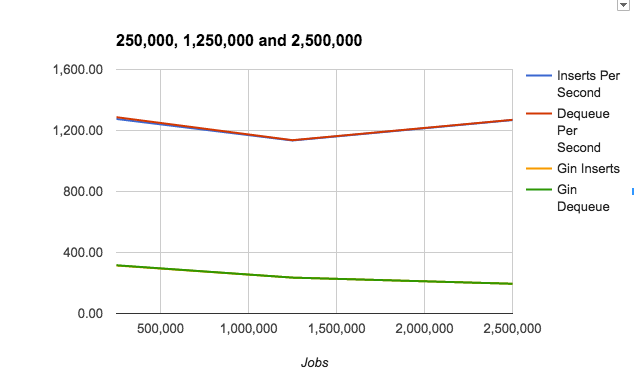
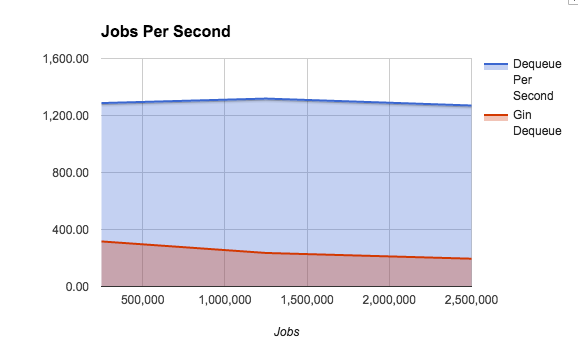
Update charts

diff --git a/NOTES.md b/NOTES.md
@@ -17,6 +17,7 @@ Run:
 
 Run with Gin Index:
 
+
 ```sql
 CREATE INDEX queue_ids_idx ON queue USING GIN (q_name, (data #> '{ids}'::text[]));
 ```
@@ -27,5 +28,6 @@ CREATE INDEX queue_ids_idx ON queue USING GIN (q_name, (data #> '{ids}'::text[])
 | 25W/25R     | 1,250,000 | 235.29247119812302 | 235.37000080683464 |
 | 25W/25R     | 2,500,000 | 195.0683681243154  | 195.09491303797395 |
 
+![Chart](GIN_Cost.png)
 
 
